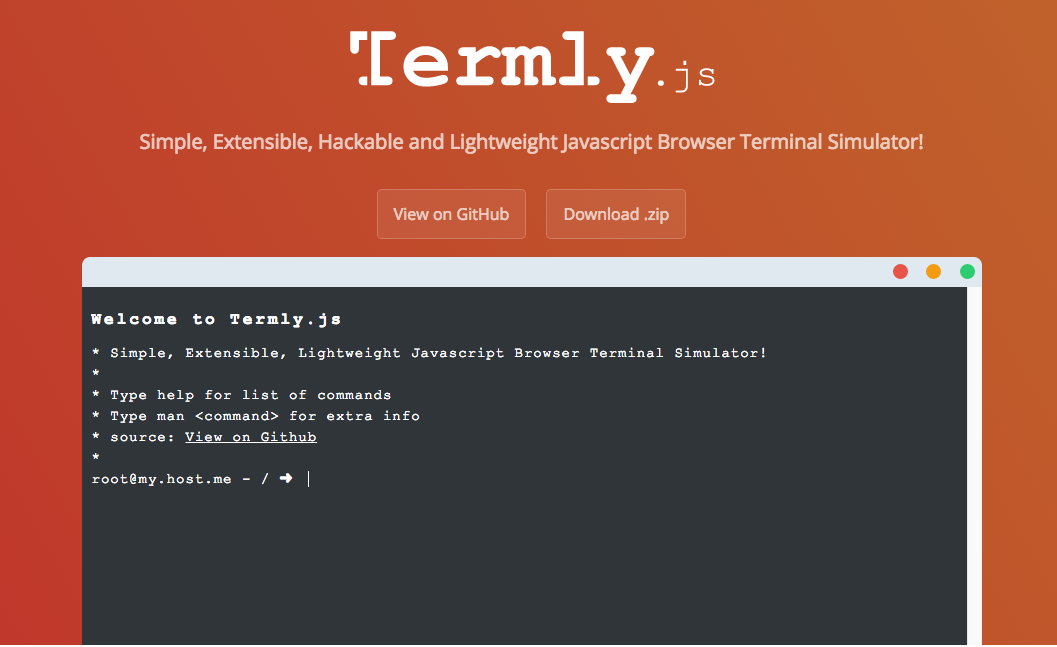
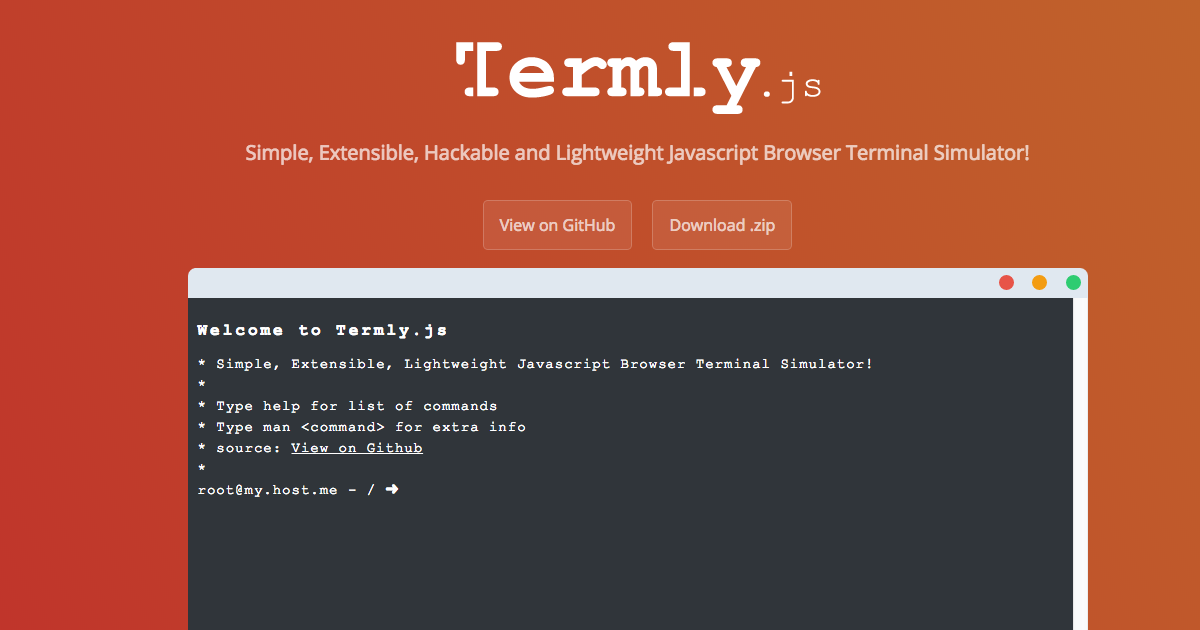
readme

diff --git a/_layouts/default.html b/_layouts/default.html
@@ -24,7 +24,7 @@
     <meta property="og:url" content="https://kirkhammetz.github.io/termly.js/" />
     <meta property="og:title" content="Termly.js" />
     <meta property="og:description" content="Simple, Extensible, Hackable and Lightweight Browser Terminal Simulator!" />
-    <meta property="og:image" content="https://kirkhammetz.github.io/termly.js/assets/images/termlyjs-preview.png?ver=1" />
+    <meta property="og:image" content="https://kirkhammetz.github.io/termly.js/assets/images/termlyjs-preview.png?ver=1.1.1" />
     <script>
       (function(i,s,o,g,r,a,m){i['GoogleAnalyticsObject']=r;i[r]=i[r]||function(){
       (i[r].q=i[r].q||[]).push(arguments)},i[r].l=1*new Date();a=s.createElement(o),
